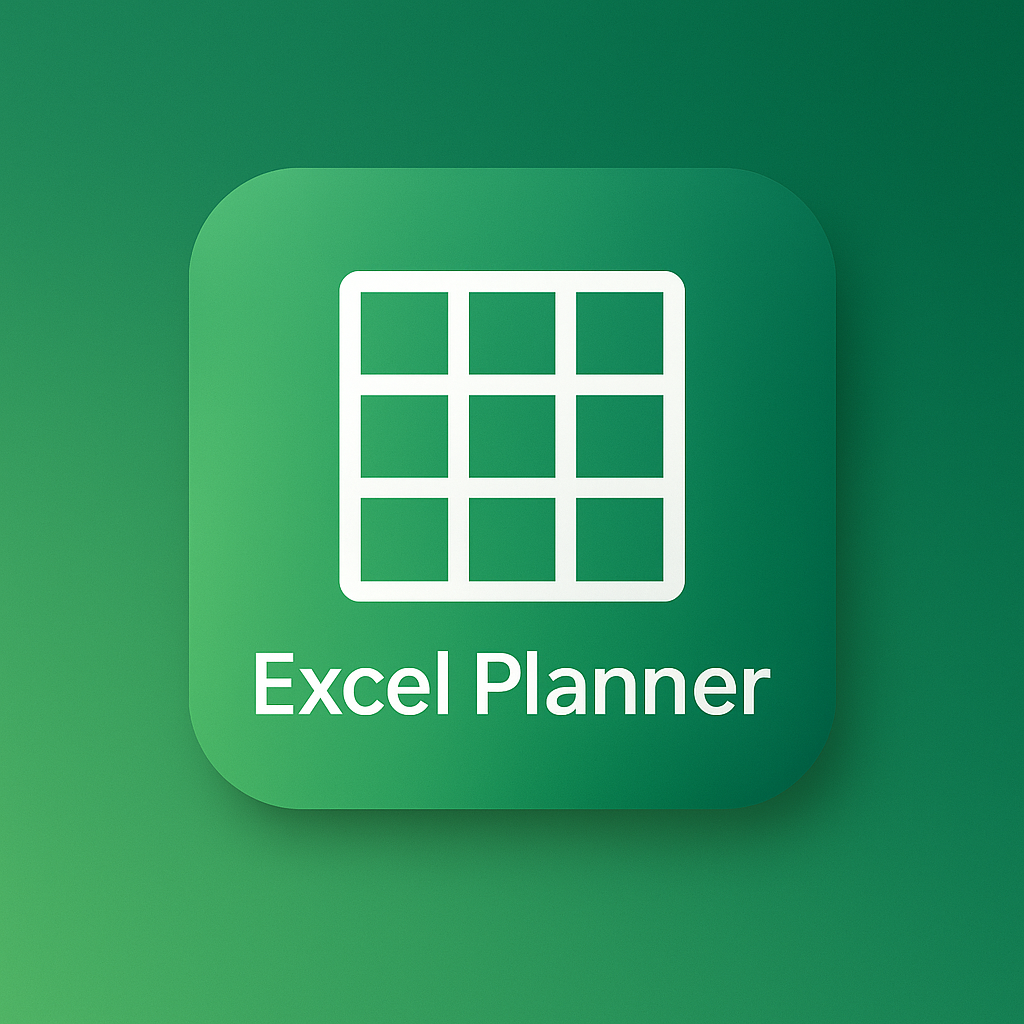
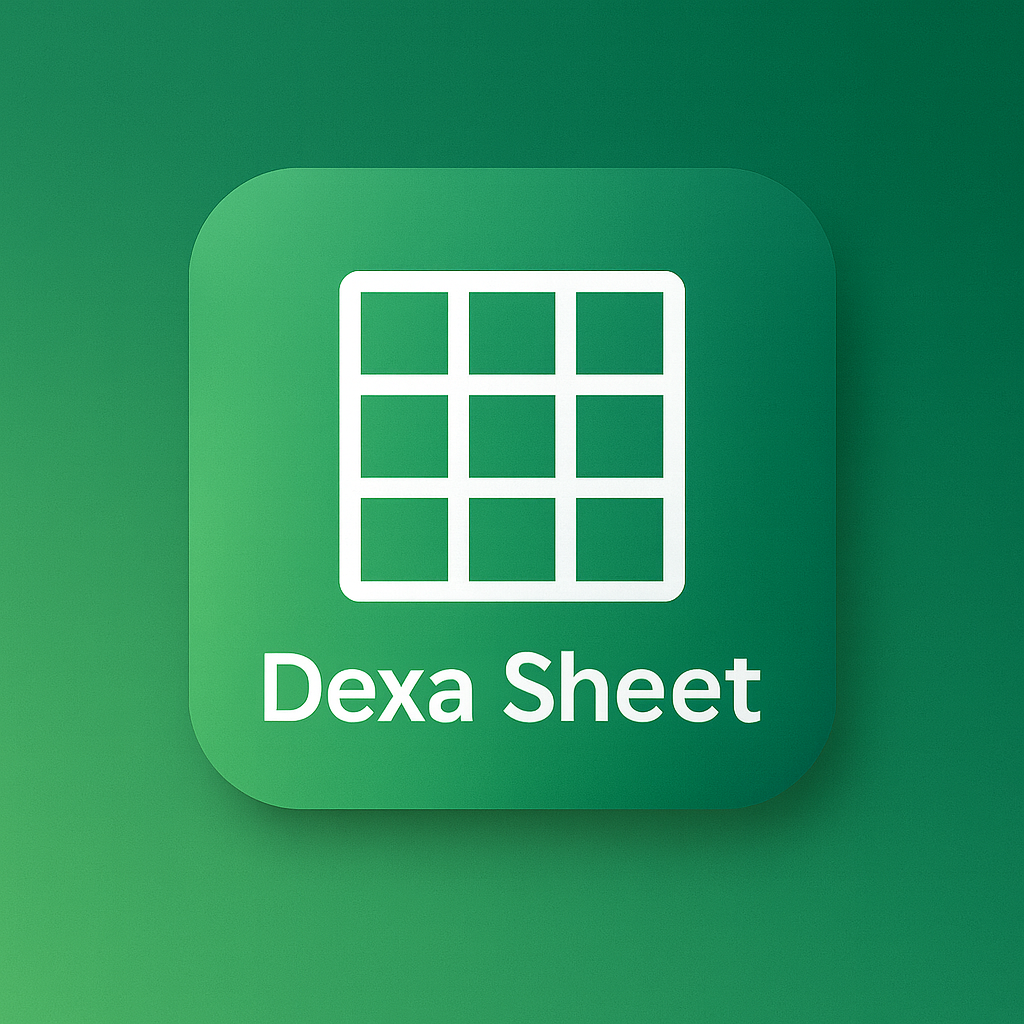
changed name to dexa sheetand replace name in needed file

Changed region(s): [[0.25, 0.625, 0.75, 0.7188]]

diff --git a/lib/presentation/pages/sheet_list_page.dart b/lib/presentation/pages/sheet_list_page.dart
@@ -1,8 +1,9 @@
-import 'package:excel_planner/core/constants.dart';
-import 'package:excel_planner/data/datasources/local_datasource.dart';
-import 'package:excel_planner/data/repositories/sheet_repository_impl.dart';
-import 'package:excel_planner/domain/entities/sheet.dart';
-import 'package:excel_planner/presentation/pages/home_page.dart';
+
+import 'package:dexa_sheet/core/constants.dart';
+import 'package:dexa_sheet/data/datasources/local_datasource.dart';
+import 'package:dexa_sheet/data/repositories/sheet_repository_impl.dart';
+import 'package:dexa_sheet/domain/entities/sheet.dart';
+import 'package:dexa_sheet/presentation/pages/home_page.dart';
 import 'package:flutter/material.dart';
 import 'package:hive/hive.dart';
 
@@ -120,7 +121,7 @@ Future<void> _refreshList() async {
     children: const [
       Icon(Icons.table_chart_rounded, color: Colors.white),
       SizedBox(width: 8),
-      Text('Excel Planner', style: TextStyle(fontWeight: FontWeight.w600)),
+      Text('Dexa sheet', style: TextStyle(fontWeight: FontWeight.w600)),
     ],
   ),
   actions: [

diff --git a/lib/presentation/pages/home_page.dart b/lib/presentation/pages/home_page.dart
@@ -1,6 +1,6 @@
 import 'dart:io';
 
-import 'package:excel_planner/presentation/%20providers/sheet_provider.dart';
+import 'package:dexa_sheet/presentation/%20providers/sheet_provider.dart';
 import 'package:flutter/material.dart';
 import 'package:provider/provider.dart';
 import '../widgets/grid_widget.dart';
@@ -30,7 +30,7 @@ void initState() {
     return Scaffold(
       appBar: AppBar(
         backgroundColor: const Color(0xFF2E7D32),
-        title: const Text('Excel-like Planner'),
+        title: const Text('Dexa Sheet'),
         actions: [
           IconButton(
             tooltip: 'Save locally',

diff --git a/lib/presentation/ providers/sheet_provider.dart b/lib/presentation/ providers/sheet_provider.dart
@@ -1,8 +1,8 @@
 import 'dart:async';
-import 'package:excel_planner/core/constants.dart';
-import 'package:excel_planner/domain/entities/sheet.dart';
-import 'package:excel_planner/domain/usecases/load_sheet_usecase.dart';
-import 'package:excel_planner/domain/usecases/save_sheet_usecase.dart';
+import 'package:dexa_sheet/core/constants.dart';
+import 'package:dexa_sheet/domain/entities/sheet.dart';
+import 'package:dexa_sheet/domain/usecases/load_sheet_usecase.dart';
+import 'package:dexa_sheet/domain/usecases/save_sheet_usecase.dart';
 import 'package:flutter/material.dart';
 import 'package:csv/csv.dart';
 

diff --git a/lib/data/repositories/sheet_repository_impl.dart b/lib/data/repositories/sheet_repository_impl.dart
@@ -1,8 +1,10 @@
 
 
-import 'package:excel_planner/data/datasources/local_datasource.dart';
-import 'package:excel_planner/domain/entities/sheet.dart';
-import 'package:excel_planner/domain/repositories/sheet_repository.dart';
+
+
+import 'package:dexa_sheet/data/datasources/local_datasource.dart';
+import 'package:dexa_sheet/domain/entities/sheet.dart';
+import 'package:dexa_sheet/domain/repositories/sheet_repository.dart';
 
 class SheetRepositoryImpl implements SheetRepository {
   final LocalDataSource local;

diff --git a/lib/main.dart b/lib/main.dart
@@ -1,5 +1,6 @@
-import 'package:excel_planner/presentation/%20providers/sheet_provider.dart';
-import 'package:excel_planner/presentation/pages/splash_page.dart';
+
+import 'package:dexa_sheet/presentation/%20providers/sheet_provider.dart';
+import 'package:dexa_sheet/presentation/pages/splash_page.dart';
 import 'package:flutter/material.dart';
 import 'package:provider/provider.dart';
 import 'package:hive_flutter/hive_flutter.dart';

diff --git a/lib/presentation/widgets/grid_widget.dart b/lib/presentation/widgets/grid_widget.dart
@@ -1,5 +1,5 @@
-import 'package:excel_planner/core/constants.dart';
-import 'package:excel_planner/presentation/%20providers/sheet_provider.dart';
+import 'package:dexa_sheet/core/constants.dart';
+import 'package:dexa_sheet/presentation/%20providers/sheet_provider.dart';
 import 'package:flutter/material.dart';
 import 'package:provider/provider.dart';
 import 'cell_editor.dart';

diff --git a/lib/domain/usecases/load_sheet_usecase.dart b/lib/domain/usecases/load_sheet_usecase.dart
@@ -1,7 +1,8 @@
 
 
-import 'package:excel_planner/domain/entities/sheet.dart';
-import 'package:excel_planner/domain/repositories/sheet_repository.dart';
+
+import 'package:dexa_sheet/domain/entities/sheet.dart';
+import 'package:dexa_sheet/domain/repositories/sheet_repository.dart';
 
 class LoadSheetUseCase {
   final SheetRepository repository;

diff --git a/lib/domain/usecases/save_sheet_usecase.dart b/lib/domain/usecases/save_sheet_usecase.dart
@@ -1,7 +1,8 @@
 
 
-import 'package:excel_planner/domain/entities/sheet.dart';
-import 'package:excel_planner/domain/repositories/sheet_repository.dart';
+
+import 'package:dexa_sheet/domain/entities/sheet.dart';
+import 'package:dexa_sheet/domain/repositories/sheet_repository.dart';
 
 class SaveSheetUseCase {
   final SheetRepository repository;

diff --git a/lib/data/datasources/local_datasource.dart b/lib/data/datasources/local_datasource.dart
@@ -1,5 +1,5 @@
-import 'package:excel_planner/core/constants.dart';
-import 'package:excel_planner/domain/entities/sheet.dart';
+import 'package:dexa_sheet/core/constants.dart';
+import 'package:dexa_sheet/domain/entities/sheet.dart';
 import 'package:hive/hive.dart';
 import 'dart:convert';
 

diff --git a/lib/presentation/widgets/cell_editor.dart b/lib/presentation/widgets/cell_editor.dart
@@ -1,4 +1,4 @@
-import 'package:excel_planner/presentation/%20providers/sheet_provider.dart';
+import 'package:dexa_sheet/presentation/%20providers/sheet_provider.dart';
 import 'package:flutter/material.dart';
 import 'package:provider/provider.dart';
 

diff --git a/lib/domain/repositories/sheet_repository.dart b/lib/domain/repositories/sheet_repository.dart
@@ -1,5 +1,6 @@
 
-import 'package:excel_planner/domain/entities/sheet.dart';
+
+import 'package:dexa_sheet/domain/entities/sheet.dart';
 
 abstract class SheetRepository {
   Future<List<SheetMeta>> getAllSheets();

diff --git a/android/app/src/main/kotlin/com/example/dexasheet/MainActivity.kt b/android/app/src/main/kotlin/com/example/dexasheet/MainActivity.kt
@@ -1,4 +1,4 @@
-package com.example.excel_planner
+package com.dexasheet.dexasheet
 
 import io.flutter.embedding.android.FlutterActivity
 
